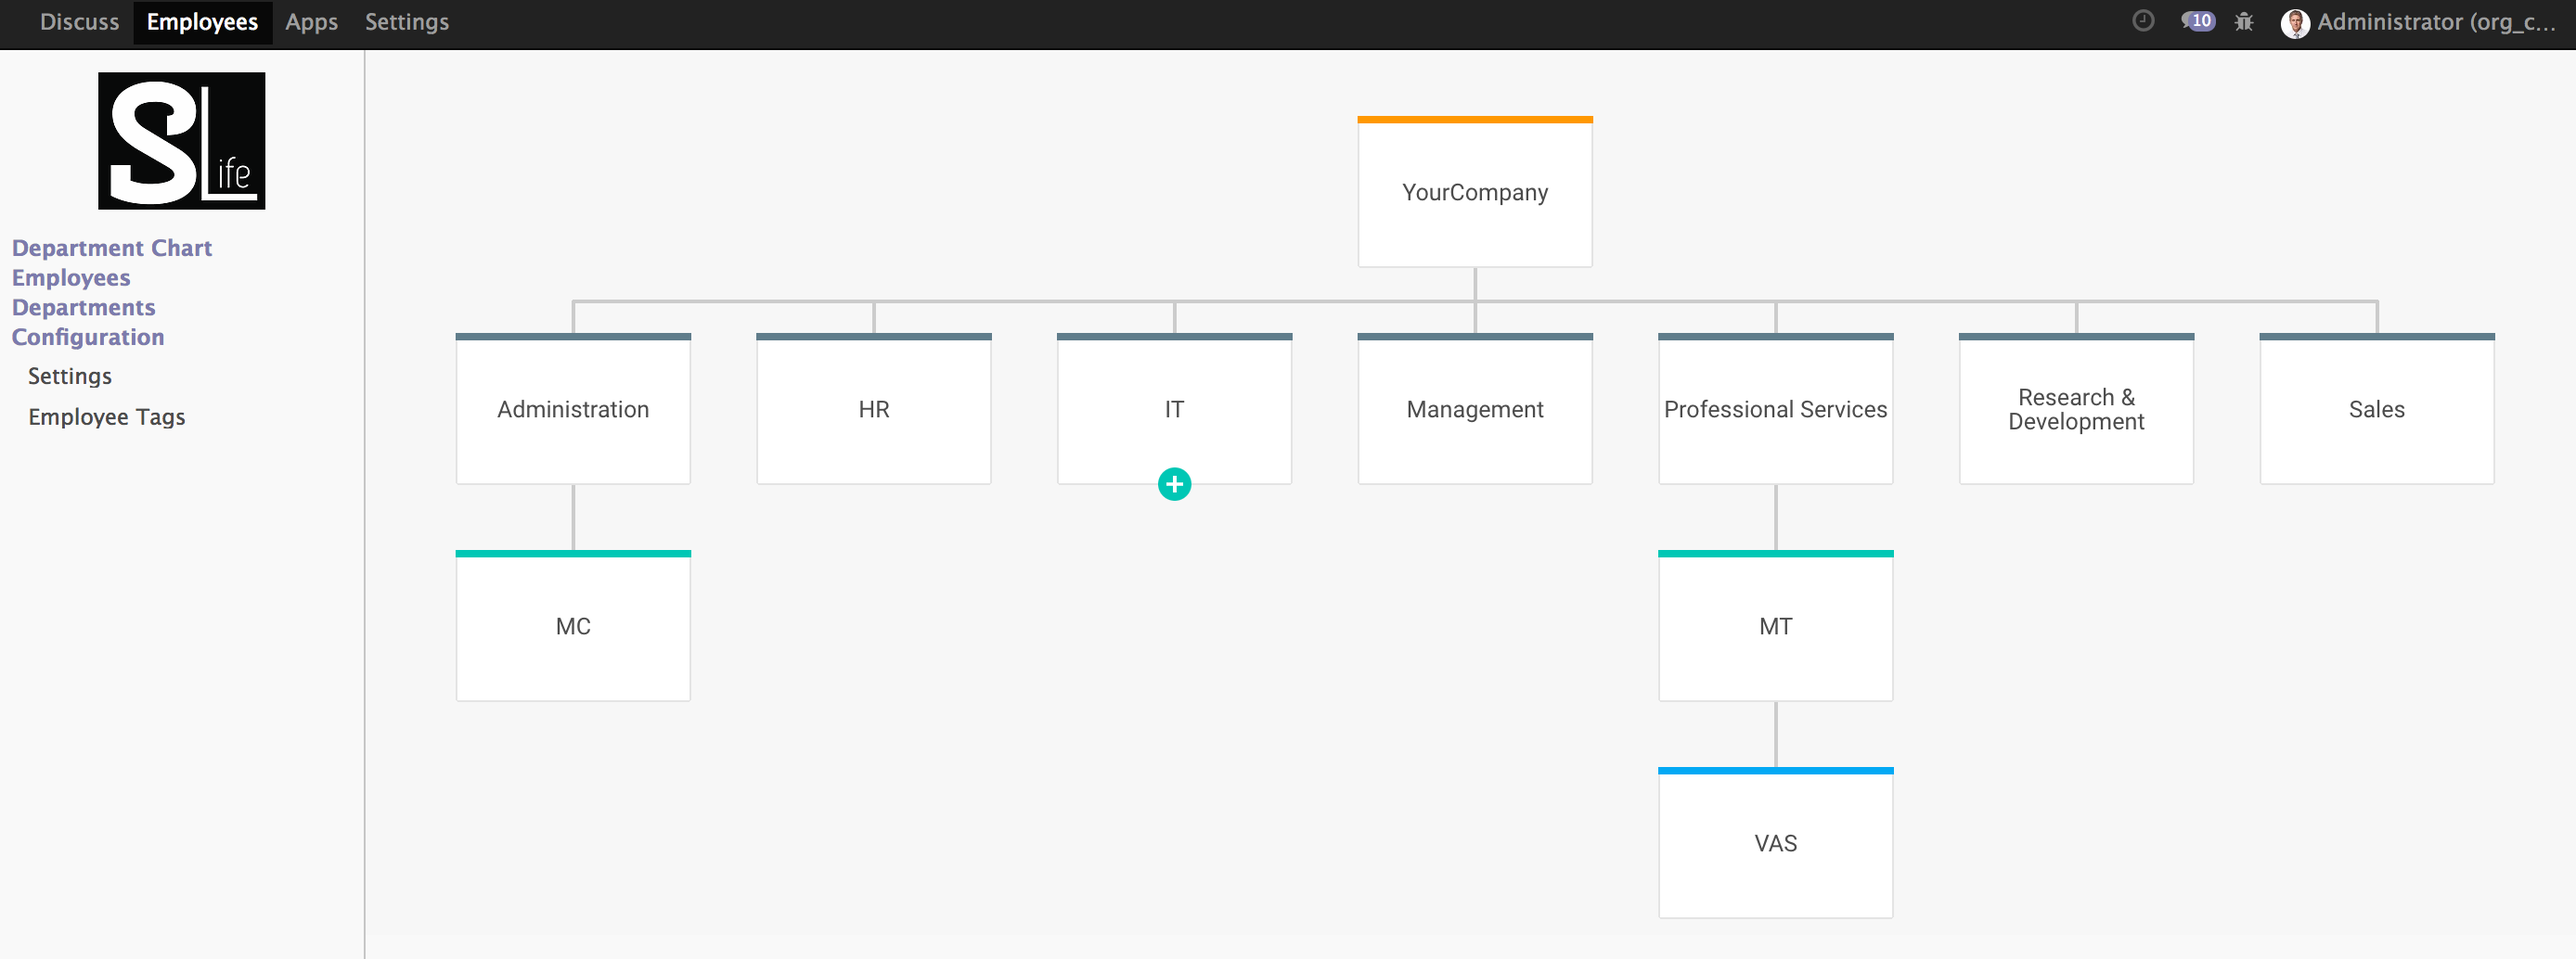
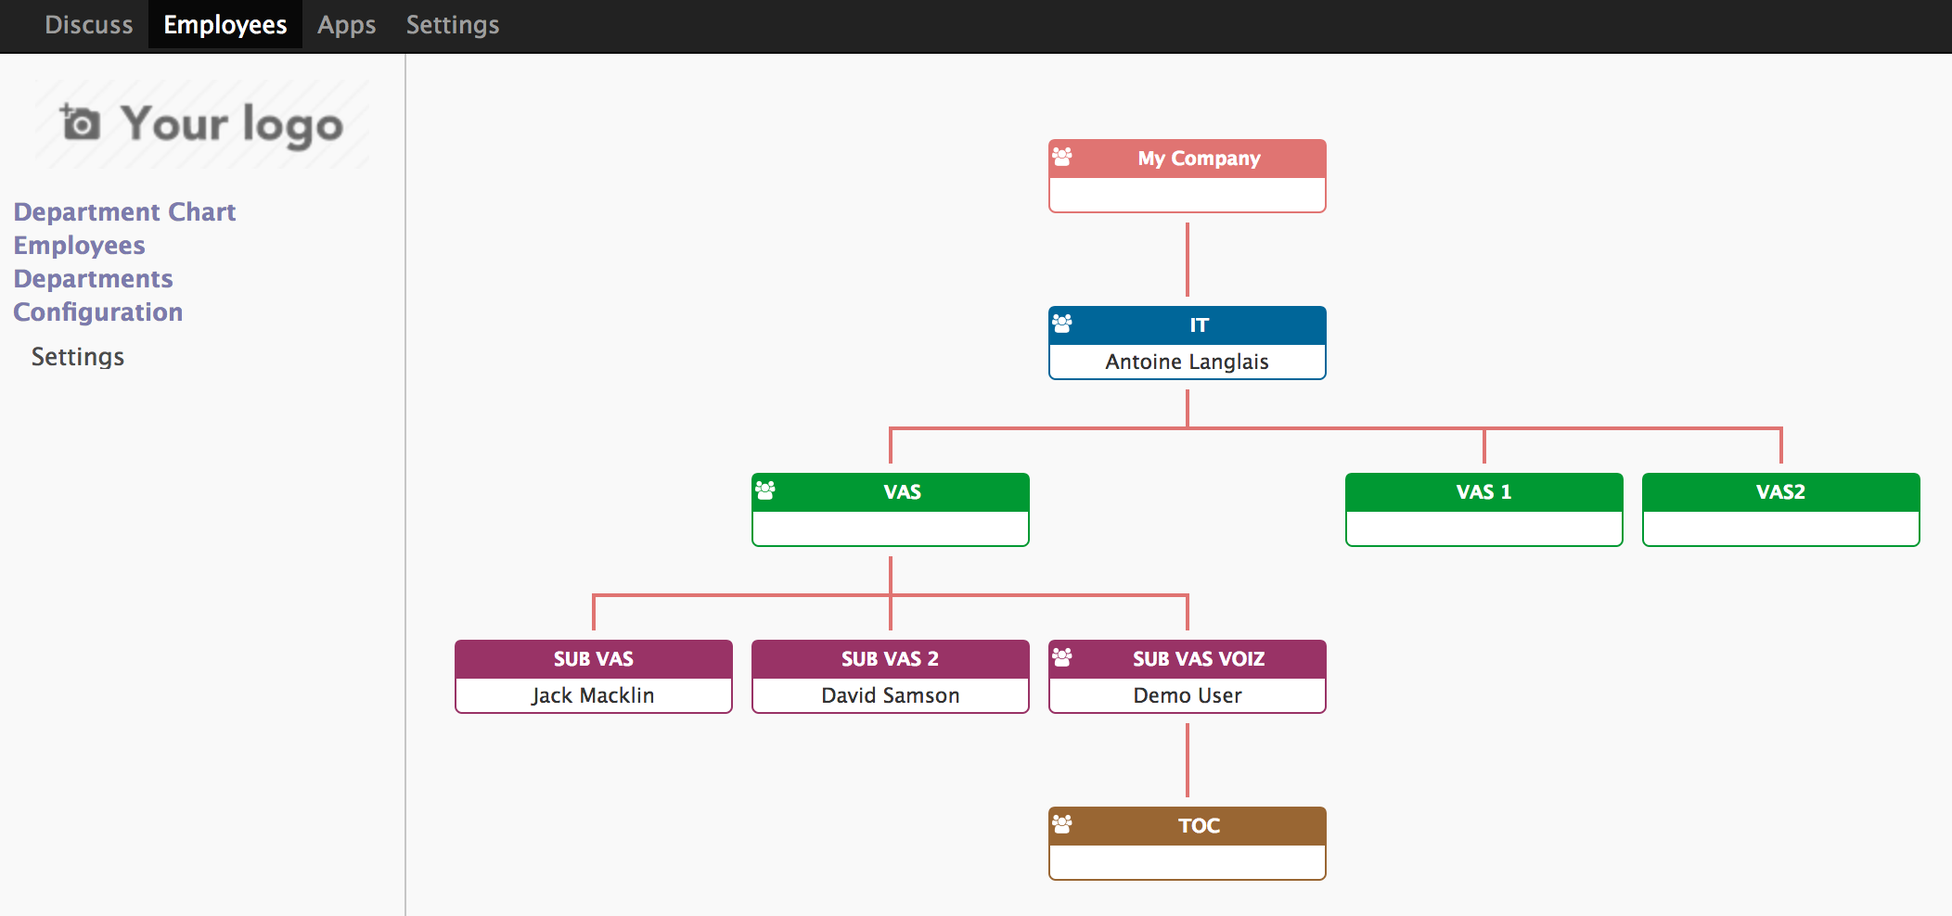
Version 2 of Org Chart Organization for Department

diff --git a/org_chart_organization/static/description/index.html b/org_chart_organization/static/description/index.html
@@ -24,7 +24,7 @@
 
 <section class="oe_container oe_dark">
     <div class="oe_row oe_spaced">
-        <h2 class="oe_slogan" style="color:#875A7B;"> (+) Or (-) Button To Reduce Or Extend</h2>
+        <h2 class="oe_slogan" style="color:#875A7B;"> (^) Or (>) Button To Reduce Or Extend</h2>
         <div class="oe_span6">
             <img class="oe_picture oe_screenshot" src="main_2.png">
         </div>
@@ -40,6 +40,7 @@
     <div class="oe_row oe_spaced">
         <h2 class="oe_slogan" style="color:#875A7B;">SLife Organization</h2>
         <h3 class="oe_slogan">Make Your Life Simple (Simplify your Life)</h3>
+        <h4 class="oe_slogan">Abidjan, Cote d'Ivoire</h4>
         <div class="text-justify">
           <table style="margin:auto;">
             <tr>

diff --git a/org_chart_organization/models/models.py b/org_chart_organization/models/models.py
@@ -8,15 +8,47 @@ class OrgChartDepartment(models.Model):
 
 	@api.model
 	def get_department_data(self):
-		departments = self.env['hr.department'].search([])
-		data = [{
-			'id': -1,
-			'text': self.env.user.company_id.name,
-		}]
+		data = {
+			'name': 'My Company',
+			'title': '',
+			'children': [],
+		}
+		departments = self.env['hr.department'].search([('parent_id','=',False)])
 		for department in departments:
-			department_data = {'id': department.id, 'text': department.name, 'parent': department.parent_id.id}
-			if not department.parent_id.id:
-				department_data['parent'] = -1
-			data.append(department_data)
+			data['children'].append(self.get_children(department, 'middle-level'))
 
 		return {'values': data}
+
+
+	@api.model
+	def get_children(self, dep, style=False):
+		data = []
+		dep_data = {'name': dep.name, 'title': dep.manager_id.name}
+		childrens = self.env['hr.department'].search([('parent_id','=',dep.id)])
+		for child in childrens:
+			sub_child = self.env['hr.department'].search([('parent_id','=',child.id)])
+			next_style= self._get_style(style)
+			if not sub_child:
+				data.append({'name': child.name, 'title': child.manager_id.name, 'className': next_style})
+			else:
+				data.append(self.get_children(child, next_style))
+
+		if childrens:
+			dep_data['children'] = data
+		if style:
+			dep_data['className'] = style
+
+		return dep_data
+
+
+	def _get_style(self, last_style):
+		if last_style == 'middle-level':
+			return 'product-dept'
+		if last_style == 'product-dept':
+			return 'rd-dept'
+		if last_style == 'rd-dept':
+			return 'pipeline1'
+		if last_style == 'pipeline1':
+			return 'frontend1'
+
+		return 'middle-level'

diff --git a/org_chart_organization/__manifest__.py b/org_chart_organization/__manifest__.py
@@ -1,12 +1,11 @@
 # -*- coding: utf-8 -*-
 {
 	'name': "Org Chart Organization",
-	'sequence': 0,
 	'summary': """Dinamic display of your Departement Organization""",
 	'description': """Dinamic display of your Departement Organization""",
 	'author': "SLife Organization, Odoo Community Association (OCA)",
 	'category': 'Human Resources',
-	'version': '1.0',
+	'version': '2.0',
 	'license': 'AGPL-3',
 	'depends': ['hr'],
 	'data': ['views/org_chart_views.xml'],
@@ -17,5 +16,6 @@
         "static/src/xml/org_chart_department.xml",
     ],
 	'installable': True,
+	'application': True,
 	'auto_install': False,
 }
